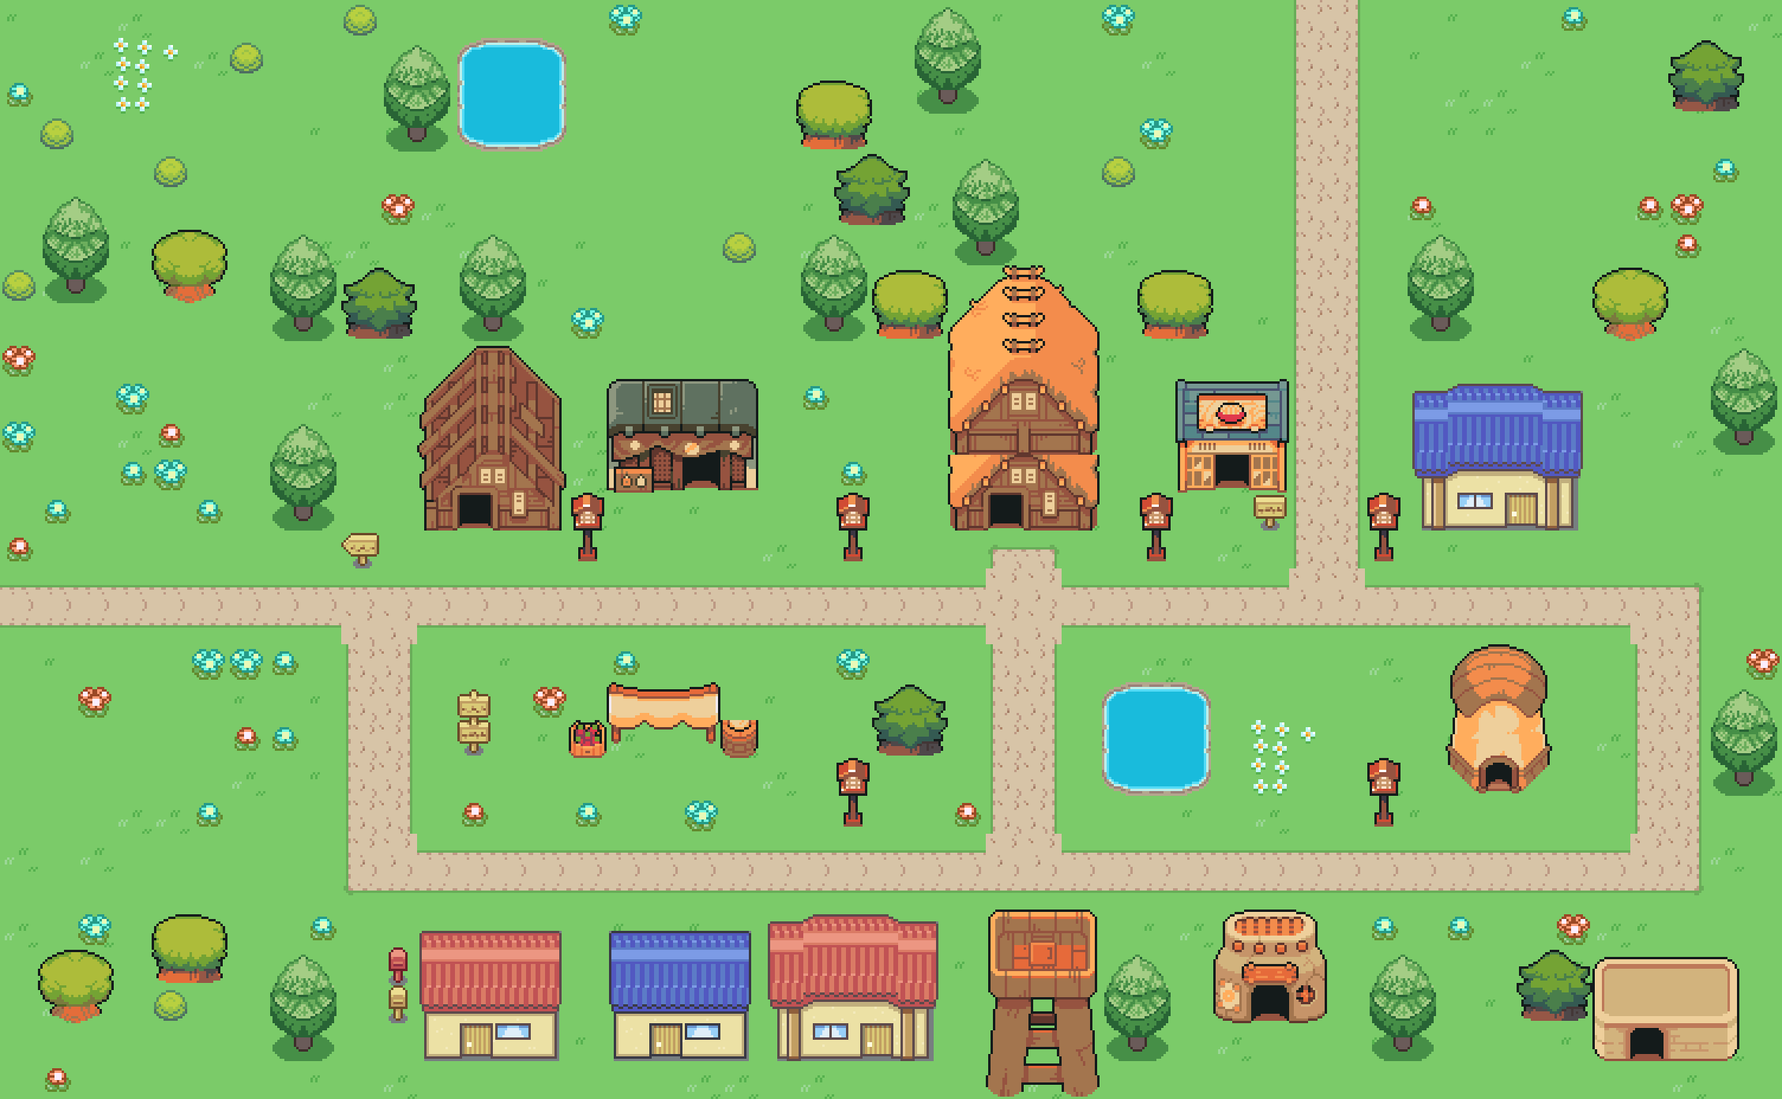
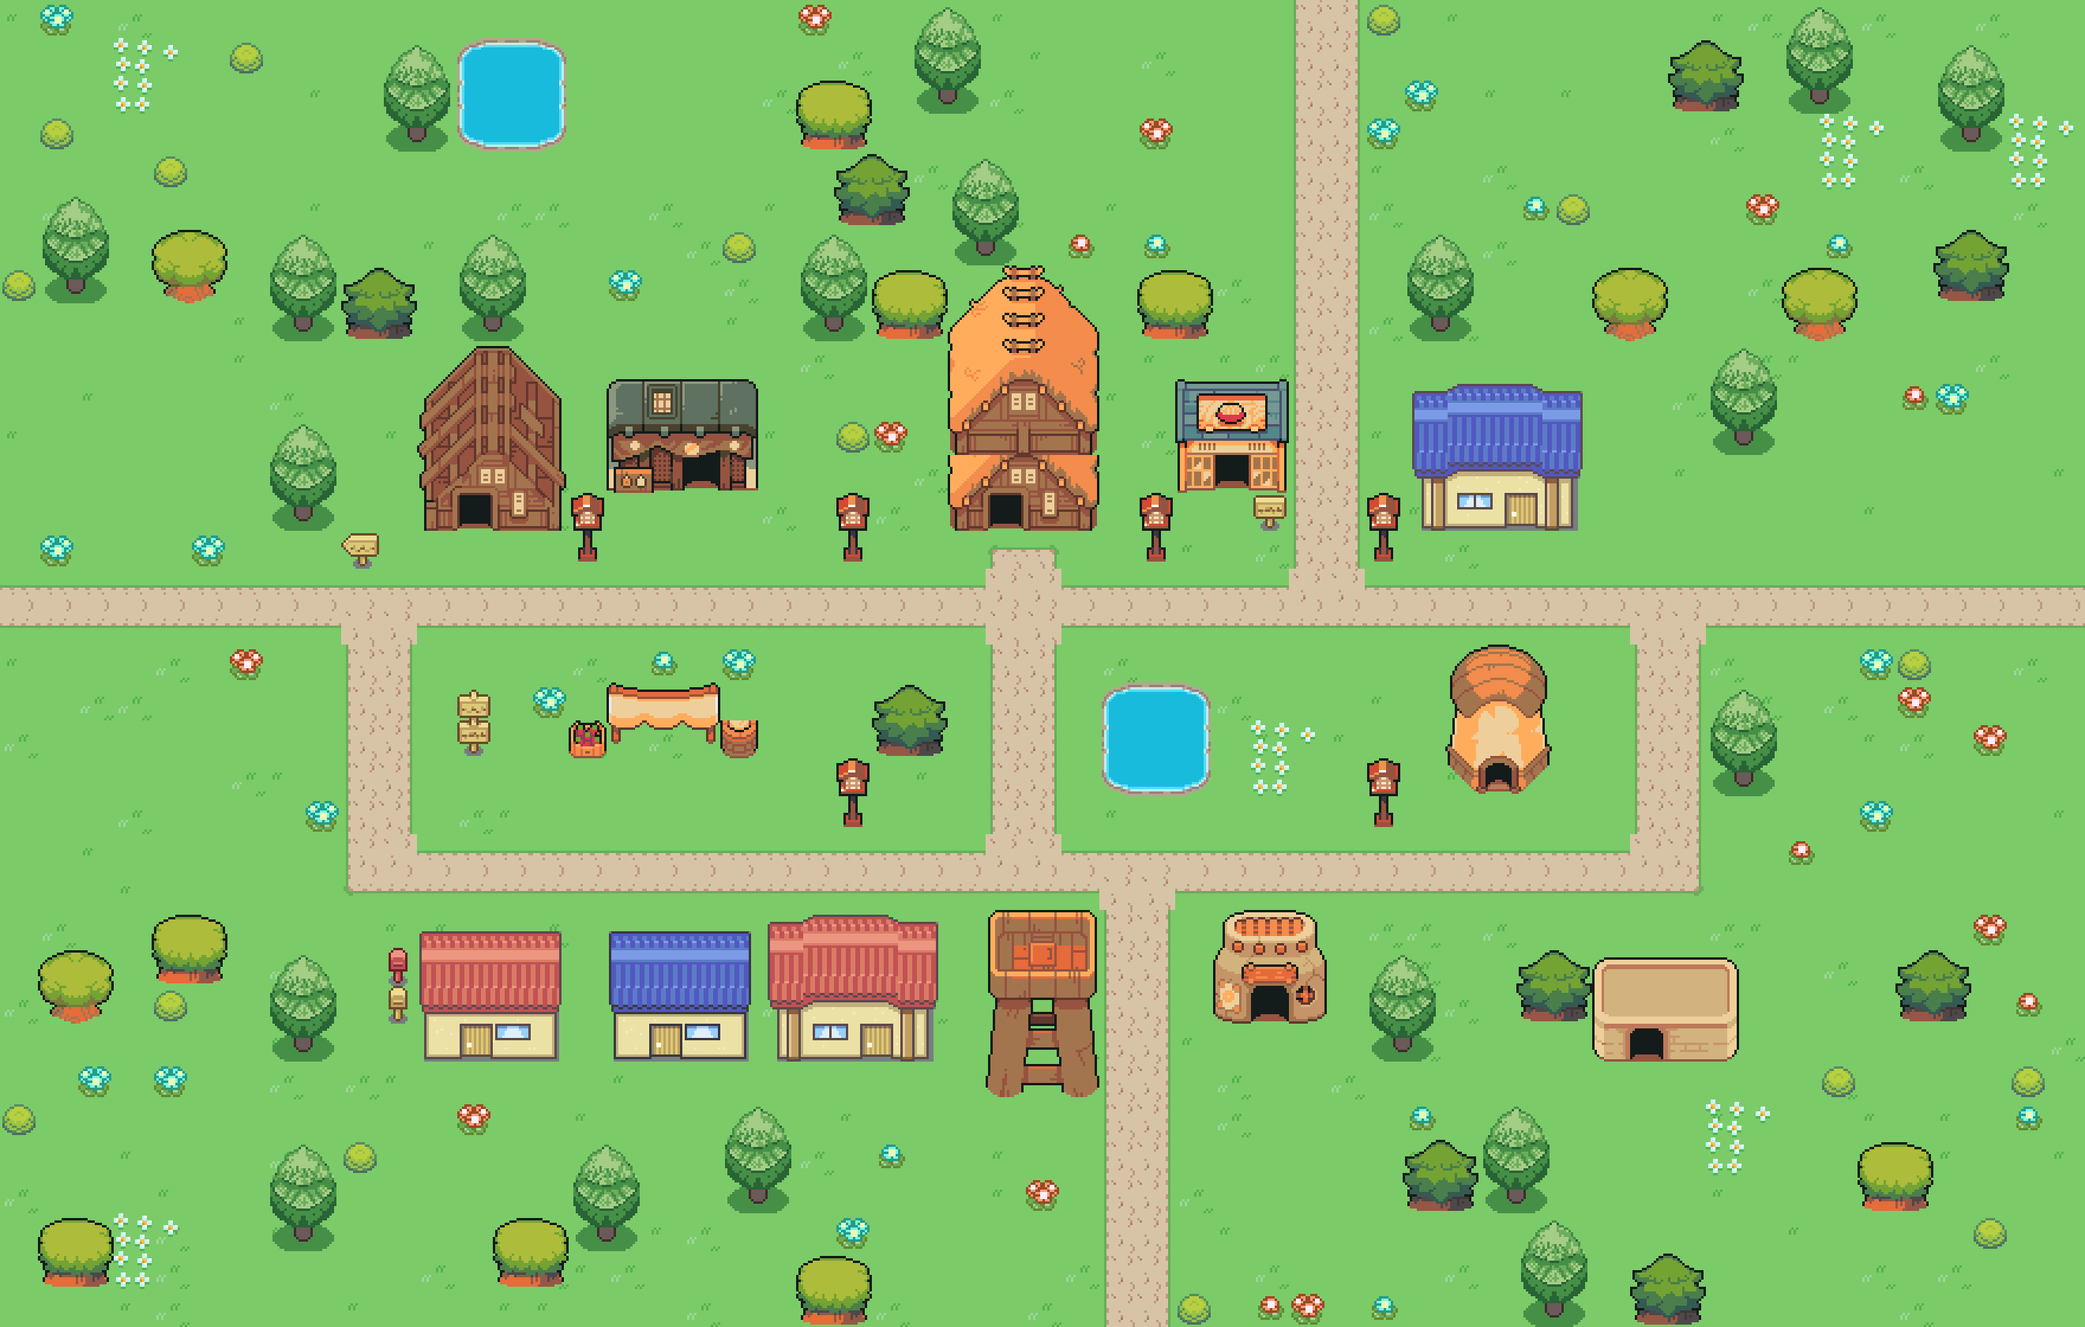
More land: every ring reaches east and south too, with an east road and a south road and two plots on each; villages that have cleared rings get the new plots at once (#193)

diff --git a/src/components/village/scenes/village.ts b/src/components/village/scenes/village.ts
@@ -154,30 +154,59 @@ const ORIGINAL: SceneLayout = {
 // after that clears another ring (8 more columns west, 6 more rows north) with
 // four more plots. The map is drawn once per level (npm run village:map); the
 // village shows the level that's been cleared.
+//
+// More land east and south (#193): every ring also reaches east (8 more
+// columns, beside an east road that carries on from the upper street) and
+// south (6 more rows, beside a south road from the lower street, by the guard
+// tower), with two plots on each. The map grows right and down for them, so
+// nothing to the north and west moves. A village that has cleared a ring gets
+// its east and south plots too.
 export const MAX_VILLAGE_LEVEL = 3;
 const RING_ROWS = 6;
 const ringCols = (r: number) => (r === 0 ? 7 : 8);
+const EAST_COLS = 8;
+const SOUTH_ROWS = 6;
+// Where the new roads leave the original village (before it's moved).
+const EAST_ROAD_FROM = 38; // the column after the upper street's east end
+const SOUTH_ROAD_COL = 22; // beside the guard tower, down from the lower street
+const SOUTH_ROAD_FROM = 16; // the lower street's row
 
 // The plot ids of one ring: the first ring keeps its original names.
 export function ringPlotIds(r: number): string[] {
-  return [`north-${2 * r + 1}`, `north-${2 * r + 2}`, `west-${2 * r + 1}`, `west-${2 * r + 2}`];
+  return [`north-${2 * r + 1}`, `north-${2 * r + 2}`, `west-${2 * r + 1}`, `west-${2 * r + 2}`, `east-${2 * r + 1}`, `east-${2 * r + 2}`, `south-${2 * r + 1}`, `south-${2 * r + 2}`];
 }
 
 function villageAtLevel(level: number): SceneLayout {
   let dc = 0;
   for (let r = 0; r <= level; r++) dc += ringCols(r);
   const dr = RING_ROWS * (level + 1);
-  const moved = shiftLayout(ORIGINAL, dc, dr);
+  const shifted = shiftLayout(ORIGINAL, dc, dr);
+  const ec = EAST_COLS * (level + 1);
+  const sr = SOUTH_ROWS * (level + 1);
   const roadCol = 27 + dc; // the north road
-  const roadRow = 9 + dr; // the west road
+  const roadRow = 9 + dr; // the west road, and the east road
+  const southCol = SOUTH_ROAD_COL + dc; // the south road
+  const right = ORIGINAL.cols + dc; // where the east land starts
+  const bottom = ORIGINAL.rows + dr; // where the south land starts
+  // The tree that stood where the south road now runs makes way for it.
+  const moved: SceneLayout = {
+    ...shifted,
+    cols: shifted.cols + ec,
+    rows: shifted.rows + sr,
+    decor: shifted.decor.filter((d) => !(d.col >= southCol - 1 && d.col <= southCol + 1 && d.row > SOUTH_ROAD_FROM + dr + 1)),
+  };
   const NORTH_ROAD: Rect = { col: roadCol, row: 0, w: 2, h: dr };
   const WEST_ROAD: Rect = { col: 0, row: roadRow, w: dc, h: 2 };
+  const EAST_ROAD: Rect = { col: EAST_ROAD_FROM + dc, row: roadRow, w: right + ec - (EAST_ROAD_FROM + dc), h: 2 };
+  const SOUTH_ROAD: Rect = { col: southCol, row: SOUTH_ROAD_FROM + dr, w: 2, h: bottom + sr - (SOUTH_ROAD_FROM + dr) };
 
   const plots: NonNullable<SceneLayout["plots"]> = [];
   const waypoints: SceneLayout["waypoints"] = [];
   const decor: SceneLayout["decor"] = [];
   const northChain: string[] = [];
   const westChain: string[] = [];
+  const eastChain: string[] = [];
+  const southChain: string[] = [];
   let inner = 0;
   for (let r = 0; r <= level; r++) {
     const [n1, n2, w1, w2] = ringPlotIds(r);
@@ -201,6 +230,27 @@ function villageAtLevel(level: number): SceneLayout {
     // Outermost first, towards town.
     northChain.unshift(ids[0], ids[1]);
     westChain.unshift(ids[2], ids[3]);
+    // East and south (#193): a ring's land there lies further out the more rings there are.
+    const [, , , , e1, e2, s1, s2] = ringPlotIds(r);
+    const eLeft = right + EAST_COLS * r;
+    const sTop = bottom + SOUTH_ROWS * r;
+    const eIds = [`er${r}t`, `er${r}b`];
+    const sIds = [`sr${r}l`, `sr${r}r`];
+    plots.push(
+      { id: e1, col: eLeft + 2, row: roadRow - 5, w: 4, h: 4, door: eIds[0] },
+      { id: e2, col: eLeft + 2, row: roadRow + 3, w: 4, h: 4, door: eIds[1] },
+      { id: s1, col: southCol - 5, row: sTop + 1, w: 4, h: 4, door: sIds[0] },
+      { id: s2, col: southCol + 3, row: sTop + 1, w: 4, h: 4, door: sIds[1] },
+    );
+    waypoints.push(
+      { id: eIds[0], x: eLeft + 4, y: roadRow + 0.4 },
+      { id: eIds[1], x: eLeft + 4, y: roadRow + 1.6 },
+      { id: sIds[0], x: southCol + 0.5, y: sTop + 2.5 },
+      { id: sIds[1], x: southCol + 1.5, y: sTop + 2.5 },
+    );
+    // Inner first, going out of town.
+    eastChain.push(...eIds);
+    southChain.push(...sIds);
     // Trees on the new land, clear of the plots and roads.
     if (r === 0) {
       const sx = dc - 7;
@@ -227,21 +277,25 @@ function villageAtLevel(level: number): SceneLayout {
   return countryside({
     ...moved,
     id: level === 0 ? "village" : `village-${level}`,
-    paths: { ...moved.paths!, rects: [...moved.paths!.rects, NORTH_ROAD, WEST_ROAD] },
-    walkable: [...moved.walkable, NORTH_ROAD, WEST_ROAD],
+    paths: { ...moved.paths!, rects: [...moved.paths!.rects, NORTH_ROAD, WEST_ROAD, EAST_ROAD, SOUTH_ROAD] },
+    walkable: [...moved.walkable, NORTH_ROAD, WEST_ROAD, EAST_ROAD, SOUTH_ROAD],
     decor: [...moved.decor, ...decor],
     waypoints: [
-      // The gates move out to the new edges.
+      // The gates move out to the new edges; two new ones east and south.
       ...moved.waypoints.map((w) => (w.id === "ng" ? { ...w, y: 0.6 } : w.id === "wg" ? { ...w, x: 0.6 } : w)),
       ...waypoints,
+      { id: "eg", x: right + ec - 0.6, y: roadRow + 1 },
+      { id: "sg", x: southCol + 1, y: bottom + sr - 0.6 },
     ],
     edges: [
       ...moved.edges.filter(([a, b]) => !(a === "ng" && b === "nj") && !(a === "wg" && b === "tl")),
       ...["ng", ...northChain, "nj"].slice(1).map((b, i, arr) => [i === 0 ? "ng" : arr[i - 1], b] as const),
       ...["wg", ...westChain, "tl"].slice(1).map((b, i, arr) => [i === 0 ? "wg" : arr[i - 1], b] as const),
+      ...["tr", ...eastChain, "eg"].slice(1).map((b, i, arr) => [i === 0 ? "tr" : arr[i - 1], b] as const),
+      ...["gt", ...southChain, "sg"].slice(1).map((b, i, arr) => [i === 0 ? "gt" : arr[i - 1], b] as const),
     ],
     plots,
-  }, level, roadCol, roadRow, dr, dc);
+  }, level, roadCol, roadRow, dr, dc, { right, bottom, ec, sr });
 }
 
 // The countryside (#160): the land north-west of town, between the roads and
@@ -249,10 +303,21 @@ function villageAtLevel(level: number): SceneLayout {
 // road to the west road (between the rings of plots, so it never crosses
 // one), with a pond and a grove around it. Placed from a fixed seed, so the
 // art is the same every time it's built.
-function countryside(layout: SceneLayout, level: number, roadCol: number, roadRow: number, dr: number, dc: number): SceneLayout {
+function countryside(
+  layout: SceneLayout,
+  level: number,
+  roadCol: number,
+  roadRow: number,
+  dr: number,
+  dc: number,
+  grown: { right: number; bottom: number; ec: number; sr: number },
+): SceneLayout {
   // The north-west corner, and the strip below the west road's plots.
   const corner: Rect = { col: 0, row: 0, w: roadCol - 6, h: roadRow - 6 };
-  const south: Rect = { col: 0, row: roadRow + 8, w: dc - 1, h: layout.rows - roadRow - 8 };
+  const south: Rect = { col: 0, row: roadRow + 8, w: dc - 1, h: grown.bottom - roadRow - 8 };
+  // The new land east and south (#193), round its plots.
+  const eastLand: Rect = { col: grown.right, row: 0, w: grown.ec, h: grown.bottom };
+  const southLand: Rect = { col: 0, row: grown.bottom, w: grown.right + grown.ec, h: grown.sr };
   const paths = [...layout.paths!.rects];
   const walkable = [...layout.walkable];
   if (level >= 1) {
@@ -280,7 +345,7 @@ function countryside(layout: SceneLayout, level: number, roadCol: number, roadRo
   for (const w of withLane.waypoints) taken.add(`${Math.floor(w.x)},${Math.floor(w.y)}`);
   const within = (r: Rect, a: Rect) => r.col >= a.col && r.row >= a.row && r.col + r.w <= a.col + a.w && r.row + r.h <= a.row + a.h;
   const free = (r: Rect) => {
-    if (!within(r, corner) && !within(r, south)) return false;
+    if (!within(r, corner) && !within(r, south) && !within(r, eastLand) && !within(r, southLand)) return false;
     for (let c = r.col; c < r.col + r.w; c++) for (let row = r.row; row < r.row + r.h; row++) if (taken.has(`${c},${row}`) || isPath(withLane, c, row)) return false;
     return true;
   };
@@ -305,7 +370,7 @@ function countryside(layout: SceneLayout, level: number, roadCol: number, roadRo
   for (let i = 0; i < 40 && !place("svPond", mid.col + Math.floor(rng() * 8) - 4, mid.row + Math.floor(rng() * 6) - 3); i++);
   // The grove: trees on a loose grid, flowers and bushes between.
   const trees: StampId[] = ["svTree", "pineTree", "roundTree", "leafyTree", "pineTree"];
-  for (const [area, density] of [[corner, 0.42], [south, 0.3]] as const) {
+  for (const [area, density] of [[corner, 0.42], [south, 0.3], [eastLand, 0.3], [southLand, 0.3]] as const) {
     for (let row = area.row; row < area.row + area.h; row += 3) {
       for (let col = area.col; col < area.col + area.w; col += 3) {
         const roll = rng();

diff --git a/scripts/villagers-test.ts b/scripts/villagers-test.ts
@@ -696,10 +696,15 @@ async function main() {
   check("when the village runs short, morale dips", (await (await import("../src/lib/agent/morale")).villageMorale()).every((m) => m.reasons.includes("the village ran short of bread (−10)")), after.shortage > 0);
 
   // --- new land, in rings (#105), and the tavern, shop and garden ---------------------------
-  check("the first ring has four plots", bld.plotsForLevel(0), ["north-1", "north-2", "west-1", "west-2"]);
-  check("no new land while a plot is free", (await power("propose_building", { kind: "land", reason: "x" })).includes("build on north-2 first"), true);
+  check("the first ring has eight plots, two on each road (#193)", bld.plotsForLevel(0), ["north-1", "north-2", "west-1", "west-2", "east-1", "east-2", "south-1", "south-2"]);
+  check("no new land while a plot is free", (await power("propose_building", { kind: "land", reason: "x" })).includes("build on north-2, east-1, east-2, south-1, south-2 first"), true);
   const tavern = (await (await buildingsRoute.POST(req("/api/buildings", "POST", { kind: "tavern", plotId: "north-2" }))).json()).building;
   check("the owner builds a tavern", tavern.status, "building");
+  // The east and south plots take a building each too.
+  for (const [kind, plotId] of [["house", "east-1"], ["house", "east-2"], ["house", "south-1"], ["house", "south-2"]]) {
+    const made = await buildingsRoute.POST(req("/api/buildings", "POST", { kind, plotId }));
+    check(`the owner builds on ${plotId}`, made.status, 200);
+  }
   const poor = await power("propose_building", { kind: "land", reason: "x" });
   check("the Mayor can't propose what the treasury can't pay for", poor, "Refused: the treasury has 60 coins and this needs 120. Orders from the neighbouring towns bring coins in.");
   const { sqlite: treasuryDb } = await import("../src/db");
@@ -713,7 +718,8 @@ async function main() {
   const dayLater = new Date(Date.now() + 25 * 3600_000);
   await bld.listBuildings(dayLater);
   const landState = await (await buildingsRoute.GET()).json();
-  check("…then the village reaches further, with four more plots", [landState.level, landState.plots.length, landState.plots.includes("north-3")], [1, 8, true]);
+  check("…then the village reaches further, with eight more plots", [landState.level, landState.plots.length, ["north-3", "west-4", "east-3", "south-4"].every((p) => landState.plots.includes(p))], [1, 16, true]);
+  check("the east and south plots have names", [(await import("../src/components/village/rooms/BuildingDialogs")).plotLabel("east-4"), (await import("../src/components/village/rooms/BuildingDialogs")).plotLabel("south-1")], ["East road, lower (second ring)", "South road, left"]);
   check("the second ring has its own plots", (await power("propose_building", { kind: "garden", plot: "west-3", reason: "Flowers." })).startsWith("Proposed a garden on the west-3 plot"), true);
   const morale = await (await import("../src/lib/agent/morale")).villageMorale();
   check("a tavern cheers everyone up", morale.every((m) => m.reasons.includes("the village has a tavern (+5)")), true);

diff --git a/src/components/village/rooms/BuildingDialogs.tsx b/src/components/village/rooms/BuildingDialogs.tsx
@@ -21,15 +21,19 @@ const WHAT: Record<BuildingKind, string> = {
   garden: "Where the gardener grows flowers: everyone's morale +3.",
 };
 const ICON: Record<BuildingKind, string> = { house: "🏠", farm: "🌾", mill: "⚙", bakery: "🍞", workshop: "🔧", tavern: "🍺", shop: "🛍", garden: "🌷" };
-// "north-3" → "North road, left (second ring)": two plots per road per ring.
+// "north-3" → "North road, left (second ring)": two plots per road per ring,
+// on the north, west, east and south roads (#193).
 const RING = ["first", "second", "third", "fourth"];
+const ROAD = { north: "North", west: "West", east: "East", south: "South" } as const;
 export function plotLabel(plot: string) {
-  const m = /^(north|west)-(\d+)$/.exec(plot);
+  const m = /^(north|west|east|south)-(\d+)$/.exec(plot);
   if (!m) return plot;
+  const road = m[1] as keyof typeof ROAD;
   const n = Number(m[2]) - 1;
-  const side = m[1] === "north" ? (n % 2 ? "right" : "left") : n % 2 ? "lower" : "upper";
+  // Roads running north and south have plots left and right; east and west, upper and lower.
+  const side = road === "north" || road === "south" ? (n % 2 ? "right" : "left") : n % 2 ? "lower" : "upper";
   const ring = Math.floor(n / 2);
-  return `${m[1] === "north" ? "North" : "West"} road, ${side}${ring ? ` (${RING[ring] ?? `ring ${ring + 1}`} ring)` : ""}`;
+  return `${ROAD[road]} road, ${side}${ring ? ` (${RING[ring] ?? `ring ${ring + 1}`} ring)` : ""}`;
 }
 const until = (iso: string | null) => (iso ? new Date(iso).toLocaleString([], { weekday: "short", hour: "numeric", minute: "2-digit" }) : "soon");
 
@@ -114,7 +118,7 @@ export function MapTable({ onClose }: { onClose: () => void }) {
   return (
     <ParchmentDialog kicker="Your home" title="The map table" onClose={onClose} wide>
       <p className="mb-3 text-xs text-[#6b4a2e]">
-        The land north and west of town, with a plot on each side of the roads. The Mayor proposes buildings and you decide,
+        The land around town, with a plot on each side of the roads out to the north, west, east and south. The Mayor proposes buildings and you decide,
         or build something yourself. A building takes half a day. Each house makes room for two more villagers (room now: {state.room}). The
         Mayor&apos;s proposals are paid from the village treasury (🪙 {state.economy.treasury ?? 0} now); what you build yourself is on you.
       </p>

diff --git a/src/lib/agent/villageTools.ts b/src/lib/agent/villageTools.ts
@@ -387,12 +387,12 @@ export const VILLAGE_TOOLS: Record<string, VillageTool> = {
       function: {
         name: "propose_building",
         description:
-          "Mayor only. Propose a new building on one of the empty plots north and west of town: a house (beds for two more villagers), a farm, a bakery, a workshop, a tavern, a shop or a garden (the last three cheer everyone up). The owner approves it and the village treasury pays (house 40 coins, farm 30, bakery 40, workshop 40, tavern 60, shop 50, garden 25); then it takes about half a day to build. When every plot is taken, propose `land` instead (120 coins): it clears the next ring of land around the village, with four new plots, and takes a day. Orders from other towns (accept_order) fill the treasury.",
+          "Mayor only. Propose a new building on one of the empty plots on the roads out of town (north, west, east and south): a house (beds for two more villagers), a farm, a bakery, a workshop, a tavern, a shop or a garden (the last three cheer everyone up). The owner approves it and the village treasury pays (house 40 coins, farm 30, bakery 40, workshop 40, tavern 60, shop 50, garden 25); then it takes about half a day to build. When every plot is taken, propose `land` instead (120 coins): it clears the next ring of land around the village, with eight new plots (two on each road), and takes a day. Orders from other towns (accept_order) fill the treasury.",
         parameters: {
           type: "object",
           properties: {
             kind: { type: "string", enum: ["house", "farm", "mill", "bakery", "workshop", "tavern", "shop", "garden", "land"] },
-            plot: { type: "string", description: "Optional, for a building: a free plot such as north-1 or west-2; default the first free plot." },
+            plot: { type: "string", description: "Optional, for a building: a free plot such as north-1, west-2, east-1 or south-2; default the first free plot." },
             reason: { type: "string", description: "Why the village needs it, for the owner." },
           },
           required: ["kind", "reason"],

diff --git a/src/lib/agent/buildings.ts b/src/lib/agent/buildings.ts
@@ -8,8 +8,8 @@ import { MAX_VILLAGE_LEVEL, ringPlotIds } from "@/components/village/scenes/vill
 import { TRADES, tradeOf } from "./trades";
 
 // The village grows (#105, docs/town-charter.md section 9): the Mayor (or
-// the owner) proposes a building on one of the empty plots north and west of
-// town; the owner approves; it's scaffolding for a while, then it stands.
+// the owner) proposes a building on one of the empty plots on the roads out of
+// town (north, west, east and south, #193); the owner approves; it's scaffolding for a while, then it stands.
 // Every house adds beds, and beds make room for more villagers.
 
 // `morale`: what a finished one adds to everyone's morale (morale.ts).

diff --git a/docs/town-charter.md b/docs/town-charter.md
@@ -266,10 +266,10 @@ villager is always honest with the owner. Village talk (chats without tools, mee
 interviews, life windows, messages) runs without the model's thinking, at a talk temperature
 (`thinkingFor`, `talkTemperature`); work keeps thinking.
 
-**The village grows.** There are four plots on the new land north and west of town, two along
-each road.
+**The village grows.** The land around town has plots along four roads out of it (north, west,
+east and south), two on each road for every ring of land cleared.
 
-- The Mayor proposes a building (`propose_building`): a house, a farm, a bakery or a workshop.
+- The Mayor proposes a building (`propose_building`): a house, a farm, a mill, a bakery, a workshop, a tavern, a shop or a garden.
 - The owner approves or declines it at the map table at home, or builds something there directly.
 - The tavern, the bakery and the shop have an inside: click one to go in. Whoever is there by
   their village life is shown inside, and the furniture shows the stores, who works there and

diff --git a/CHANGELOG.md b/CHANGELOG.md
@@ -6,6 +6,17 @@ framework that gives an autonomous AI agent supervised control of a computer sys
 
 
 
+
+## 2026-10-29 — More land: east and south
+
+- **Every ring of land now reaches east and south too.** A new east road carries on from the upper
+  street, and a new south road leaves the lower street beside the guard tower, each with two plots
+  per ring, plus fresh countryside around them. A ring now brings eight plots instead of four.
+- **Villages that have already cleared rings get the new plots straight away**: a village at the
+  second ring has eight more free plots. Nothing already built moves: the map grows right and
+  down.
+- The map table, plot signs, the Mayor's `propose_building` and its plot names (east-1, south-2…)
+  know the new roads.
 ## 2026-10-29 — Search with DeepSeek
 
 - **`web_search` uses DeepSeek's own search** first when the village runs on DeepSeek's API, with
